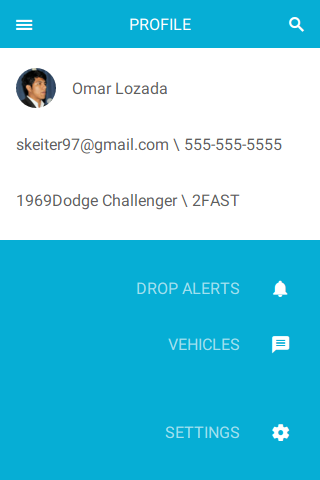
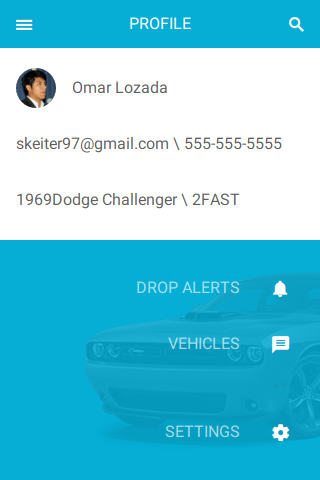
toast component initialized

diff --git a/client/app/home/home.routes.js b/client/app/home/home.routes.js
@@ -25,11 +25,7 @@ export const homeRoutes = ($sP) => {
       url: '/',
       resolve: {
         r: ['$q', 'layout', ($q, l) => {
-          //home
           l.hideAppbar = true;
-          //dashboard
-          //l.hideAppbar = false;
-          //l.title = 'profile';
           return $q.when();
         }]
       },
@@ -47,6 +43,7 @@ export const homeRoutes = ($sP) => {
         r: ['$q', 'layout', ($q, l) => {
           l.hideAppbar = false;
           l.hideSearch = true;
+          l.leftIconName = 'back';
           l.title = '';
           return $q.when();
         }]
@@ -78,6 +75,7 @@ export const homeRoutes = ($sP) => {
         r: ['$q', 'layout', ($q, l) => {
           l.hideAppbar = false;
           l.hideSearch = true;
+          l.leftIconName = 'back';
           l.title = '';
           return $q.when();
         }]
@@ -94,7 +92,7 @@ export const homeRoutes = ($sP) => {
                   $st.current.data.prevState.name !== '' ||
                   $st.current.data.prevState.name === ''
                 )
-              ) $st.go('signUp');
+              ) $st.go('dashboard');
             };
 
           }]

diff --git a/client/app/components/appbar/appbar.js b/client/app/components/appbar/appbar.js
@@ -9,6 +9,7 @@ export default angular.module('wagonAppbar', [])
     scope: {
       title: '=',
       hideSearch: '=',
+      leftIconName: '=',
       leftIconFn: '&'
     },
     controller: angular.noop,
@@ -16,12 +17,12 @@ export default angular.module('wagonAppbar', [])
     controllerAs: 'appbar',
     template: `
       <section>
-        <!--<a class='icon-arrow_back' ng-click='appbar.leftIconFn()'></a>-->
-        <a class='icon-menu'></a>
+        <a class='icon-arrow_back fx-dur-450 fx-fade-normal' ng-if='appbar.leftIconName == "back"' ng-click='appbar.leftIconFn()'></a>
+        <a class='icon-menu fx-dur-450 fx-fade-normal' ng-if='appbar.leftIconName == "menu"' ng-click='appbar.leftIconFn()'></a>
       </section>
       <h1> {{appbar.title | uppercase}} </h1>
       <section>
-        <a class='icon-search' ng-hide='appbar.hideSearch'></a>
+        <a class='icon-search fx-dur-450 fx-fade-normal' ng-hide='appbar.hideSearch'></a>
       </section>
 
     `

diff --git a/client/app/layout/styles/components/_btn.css b/client/app/layout/styles/components/_btn.css
@@ -1,36 +1,10 @@
-/*
-@define-placeholder font-roboto {
-  font-family: 'Roboto', sans-serif;
-}
-
-.btn--small {
-  display: block;
-  padding: 8px;
-  width: auto;
-  border-radius: 2px;
-  text-align: center;
-  @extend font-roboto;
-}
-
-.btn--accent {
-  background-color: var(--accentColor);
-  color: #fff;
-}
-
-.btn--fallback {
-  background-color: var(--fallbackColor);
-  color: var(--accentColor);
-}
-
-/* wagon-splash component */
-
-
 .btnSmall {
   display: block;
   width: auto;
   padding: 8px 32px;
   border-radius: 2px;
   text-align: center;
+  font-family: 'Roboto', sans-serif;
 }
 
 .btnLarge {
@@ -39,6 +13,7 @@
   width: 100%;
   border-radius: 2px;
   text-align: center;
+  font-family: 'Roboto', sans-serif;
 }
 
 .btnFab {
@@ -46,6 +21,7 @@
   padding: 8px;
   border-radius: 50%;
   text-align: center;
+  font-family: 'Roboto', sans-serif;
 }
 
 wagon-splash {

diff --git a/client/app/components/toast/toast.js b/client/app/components/toast/toast.js
@@ -1,0 +1,29 @@
+import angular from 'angular';
+
+export default angular.module('wagonToast', [])
+
+  .factory('wagonToast', ['$q', '$compile', '$rootScope', '$document',
+  ($q, $c, $rS, $d) => ({
+    show(msg) {
+      const wT = $c(angular.element('<wagon-toast />'))($rS.new());
+      $d.find('body').append(wT);
+    },
+    destroy() {
+
+    }
+  }))
+
+  .directive('wagonToast', ['wagonToast', (wT) => ({
+    scope: {isNewUser: '='},
+    restrict: 'E',
+    controller: angular.noop,
+    controllerAs: 'toast',
+    template: `<div>{{toast.message}} sss</div>`
+    link(s, elem) {
+
+      s.$on('$destroy', function() {
+        wT.destroy();
+      });
+
+    }
+  })]);

diff --git a/client/webpack.config.js b/client/webpack.config.js
@@ -13,8 +13,9 @@ const config = {
         app: "./app.js"
     },
     output: {
-        path: buildPath,
-        filename: "[name].bundle.js"
+      path: buildPath,
+      filename: "[name].bundle.js",
+      publicPath: "/build/"
     },
     module: {
       loaders: [
@@ -45,8 +46,8 @@ const config = {
           exclude: /node_modules/
         },
         {
-          test: /\.(eot|ttf|svg|woff|woff2)$/,
-          loaders: ['url?limit=40000&name=[name].[ext]'],
+          test: /\.(eot|ttf|svg|woff|woff2|png)$/,
+          loaders: ['url?limit=80000&name=[name].[ext]'],
           include: [srcPath]
         }
       ]

diff --git a/client/app/dashboard/dashboard.routes.js b/client/app/dashboard/dashboard.routes.js
@@ -1,0 +1,30 @@
+export const dashboardRules = ($uRP) => {
+
+  //$uRP.when('/', '/');
+
+};
+
+export const dashboardRoutes = ($sP) => {
+
+  $sP
+
+    .state('dashboard', {
+      parent: 'layout',
+      url: '/dashboard',
+      resolve: {
+        r: ['$q', 'layout', ($q, l) => {
+          l.hideAppbar = false;
+          l.hideSearch = false;
+          l.title = 'profile';
+          l.leftIconName = 'menu';
+          return $q.when();
+        }]
+      },
+      views: {
+        content: {
+          template: '<wagon-dashboard-page />'
+        }
+      }
+    })
+
+};

diff --git a/client/app/routes/routes.js b/client/app/routes/routes.js
@@ -6,6 +6,7 @@ import layoutModule from '../layout/layout.js';
 import dashboardModule from '../dashboard/dashboard.js';
 
 import {homeRoutes, homeRules} from '../home/home.routes.js';
+import {dashboardRoutes, dashboardRules} from '../dashboard/dashboard.routes.js';
 import {layoutRoutes} from '../layout/layout.routes.js';
 
 export default angular.module('wagonRoutes', [
@@ -26,6 +27,7 @@ export default angular.module('wagonRoutes', [
     homeRules($uRP);
 
     homeRoutes($sP);
+    dashboardRoutes($sP);
     layoutRoutes($sP);
 
     $sP

diff --git a/client/dev-server/server.js b/client/dev-server/server.js
@@ -8,11 +8,7 @@ const app = express();
 const isProduction = app.get('env') === 'production';
 const port = isProduction ? 8080 : 3000;
 
-const routeRegExp = app.get('env') === 'production' ?
-  /^\/(?!(static|build)(\/|\W)).*/ :
-  /^\/(?!(static|build)(\/|\W)).*/;
-
-app.get(routeRegExp, function(req, res) {
+app.get(/^\/(?!(static|build)(\/|\W)).*/, function(req, res) {
   res.sendFile(path.join(__dirname, 'index.html'));
 });
 

diff --git a/client/app/components/user-card/user-card.css b/client/app/components/user-card/user-card.css
@@ -9,6 +9,9 @@
 
 .sectionRight {
   composes: bgPrimary from '../../layout/styles/_placeholders.css';
+  background-image: url('../../layout/assets/images/bg-car.png');
+  background-position: right;
+  background-repeat: no-repeat;
   margin-top: 16px;
   padding-top: 24px;
 }
@@ -25,8 +28,4 @@
 
 .avatar {
   composes: avatar from '../../layout/styles/_placeholders.css';
-}
-
-.nav {
-  background: red;
 }

diff --git a/client/app/layout/layout.js b/client/app/layout/layout.js
@@ -4,7 +4,10 @@ if (__ENV__ !== 'test') require('./assets/fonts/icomoon/style.css');
 
 require('./styles/layout.css');
 
-export default angular.module('wagonlayout', [])
+export default angular.module('wagonlayout', [
+  require('angular-animate'),
+  require('ng-fx')
+])
 
   .run(['$$rAF', ($$rAF) => {
     //resize event optimized through requestAnimationFrame

diff --git a/client/app/home/home.js b/client/app/home/home.js
@@ -17,6 +17,7 @@ export default angular.module('wagonHome', [
     restrict: 'E',
     template: require('./templates/home.jade')(),
     compile(tE) {
+      tE.addClass(styles.hContainer);
       tE.find('div').eq(0).addClass(styles.hOptions);
       const buttons = tE.find('a');
       buttons.eq(0).addClass(styles.hSignUp);

diff --git a/client/app/components/splash/splash.js b/client/app/components/splash/splash.js
@@ -4,5 +4,5 @@ export default angular.module('wagonSplash', [])
 
   .directive('wagonSplash', [() => ({
     restrict: 'E',
-    template: `<img src='static/images/wagon-logo.png' />`
+    template: `<img src='static/images/wagon-logo.png' style='max-width: 100%'/>`
   })])
